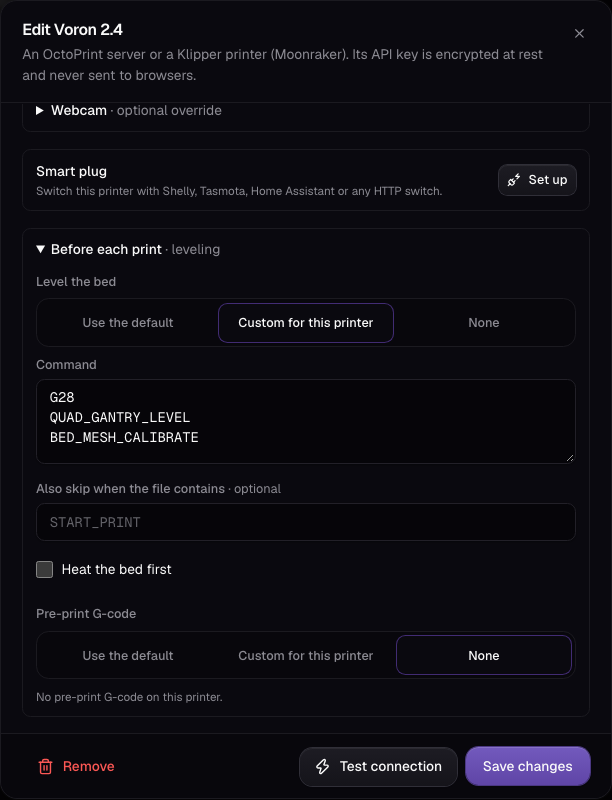
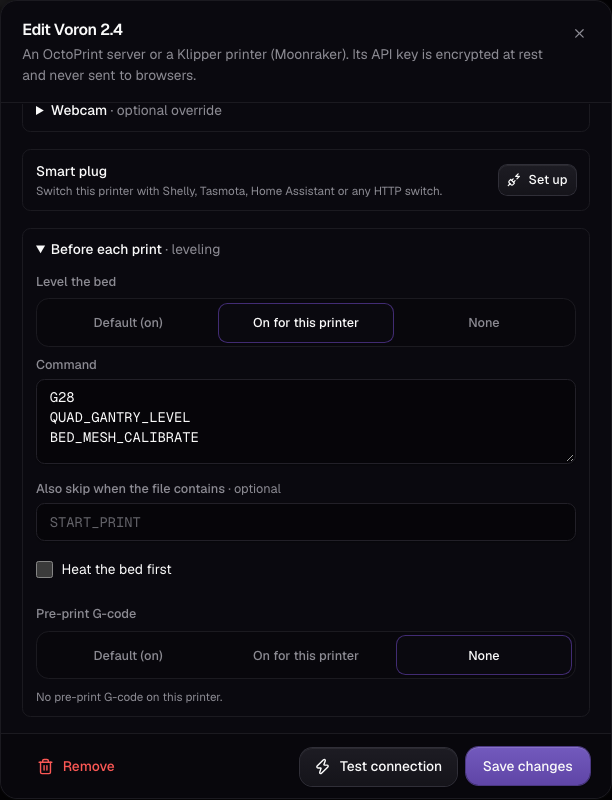
Printer dialog: show whether the pre-print default is on, and warn when Default (off) means nothing runs
Claude-Session: https://claude.ai/code/session_01VYYm8sXoCeympBHRdWuxtT

diff --git a/src/lib/components/preprint/PrinterPrePrint.svelte b/src/lib/components/preprint/PrinterPrePrint.svelte
@@ -42,6 +42,10 @@
 	const summary = (on: boolean, what: string) => (on ? what : 'off');
 	const defLevel = $derived(defaults ? summary(defaults.leveling.enabled, commandLines(kindCommand === 'G28\nG29' ? defaults.leveling.octoprintCommand : defaults.leveling.klipperCommand).join(', ') || kindCommand) : '…');
 	const defSnippet = $derived(defaults ? summary(defaults.snippet.enabled && !!commandLines(defaults.snippet.gcode).length, `${commandLines(defaults.snippet.gcode).length} lines`) : '…');
+	// "Use the default" while the default is off does nothing: say so on the button and below it.
+	const levelDefOn = $derived(!!defaults?.leveling.enabled);
+	const snippetDefOn = $derived(!!defaults && defaults.snippet.enabled && !!commandLines(defaults.snippet.gcode).length);
+	const modeLabel = (m: PrepMode, defOn: boolean) => (m === 'default' && defaults ? `Default (${defOn ? 'on' : 'off'})` : m === 'custom' ? 'On for this printer' : MODE_LABEL[m]);
 	const enabledLabel = $derived(form ? [form.leveling.mode !== 'none' && (form.leveling.mode === 'custom' || defaults?.leveling.enabled) ? 'leveling' : null, form.snippet.mode !== 'none' && (form.snippet.mode === 'custom' || defaults?.snippet.enabled) ? 'G-code' : null].filter(Boolean).join(' + ') || 'nothing' : '');
 </script>
 
@@ -55,10 +59,15 @@
 				<legend class="label">Level the bed</legend>
 				<div class="grid grid-cols-3 gap-1 rounded-xl border border-border bg-surface p-1" role="radiogroup" aria-label="Level the bed">
 					{#each MODES as m (m)}
-						<button type="button" role="radio" aria-checked={form.leveling.mode === m} onclick={() => (form!.leveling.mode = m)} class="min-h-9 rounded-lg px-2 py-1.5 text-[0.75rem] font-medium transition touch:min-h-11 {form.leveling.mode === m ? 'bg-card text-foreground shadow-surface ring-1 ring-primary/40' : 'text-muted-foreground hover:text-foreground'}">{MODE_LABEL[m]}</button>
+						<button type="button" role="radio" aria-checked={form.leveling.mode === m} onclick={() => (form!.leveling.mode = m)} class="min-h-9 rounded-lg px-2 py-1.5 text-[0.75rem] font-medium transition touch:min-h-11 {form.leveling.mode === m ? 'bg-card text-foreground shadow-surface ring-1 ring-primary/40' : 'text-muted-foreground hover:text-foreground'}">{modeLabel(m, levelDefOn)}</button>
 					{/each}
 				</div>
-				{#if form.leveling.mode === 'default'}
+				{#if form.leveling.mode === 'default' && !levelDefOn}
+					<p class="text-[0.6875rem] text-warning" data-testid="printer-level-default-off">
+						The default is off (Settings → Before each print), so this printer won’t level.
+						<button type="button" class="font-medium underline underline-offset-2" onclick={() => (form!.leveling.mode = 'custom')}>Turn it on for this printer</button>
+					</p>
+				{:else if form.leveling.mode === 'default'}
 					<p class="text-[0.6875rem] text-muted-foreground">The default (Settings → Before each print): <span class="font-mono text-foreground/80">{defLevel}</span>.</p>
 				{:else if form.leveling.mode === 'custom'}
 					<label class="block">
@@ -77,7 +86,7 @@
 						{/if}
 					</div>
 				{:else}
-					<p class="text-[0.6875rem] text-muted-foreground">Never levels before a print on this printer.</p>
+					<p class="text-[0.6875rem] text-muted-foreground">Never levels before a print on this printer, whatever the default says.</p>
 				{/if}
 			</fieldset>
 
@@ -85,10 +94,12 @@
 				<legend class="label">Pre-print G-code</legend>
 				<div class="grid grid-cols-3 gap-1 rounded-xl border border-border bg-surface p-1" role="radiogroup" aria-label="Pre-print G-code">
 					{#each MODES as m (m)}
-						<button type="button" role="radio" aria-checked={form.snippet.mode === m} onclick={() => (form!.snippet.mode = m)} class="min-h-9 rounded-lg px-2 py-1.5 text-[0.75rem] font-medium transition touch:min-h-11 {form.snippet.mode === m ? 'bg-card text-foreground shadow-surface ring-1 ring-primary/40' : 'text-muted-foreground hover:text-foreground'}">{MODE_LABEL[m]}</button>
+						<button type="button" role="radio" aria-checked={form.snippet.mode === m} onclick={() => (form!.snippet.mode = m)} class="min-h-9 rounded-lg px-2 py-1.5 text-[0.75rem] font-medium transition touch:min-h-11 {form.snippet.mode === m ? 'bg-card text-foreground shadow-surface ring-1 ring-primary/40' : 'text-muted-foreground hover:text-foreground'}">{modeLabel(m, snippetDefOn)}</button>
 					{/each}
 				</div>
-				{#if form.snippet.mode === 'default'}
+				{#if form.snippet.mode === 'default' && !snippetDefOn}
+					<p class="text-[0.6875rem] text-muted-foreground">The default has no pre-print G-code, so none runs on this printer.</p>
+				{:else if form.snippet.mode === 'default'}
 					<p class="text-[0.6875rem] text-muted-foreground">The default: <span class="font-mono text-foreground/80">{defSnippet}</span>.</p>
 				{:else if form.snippet.mode === 'custom'}
 					<textarea class="input min-h-24 py-2 font-mono text-[0.8125rem]" rows="4" placeholder={'G28\nM420 S1'} aria-label="Pre-print G-code for this printer" bind:value={form.snippet.gcode} data-testid="printer-snippet"></textarea>

diff --git a/site/docs.html b/site/docs.html
@@ -461,7 +461,7 @@ docker compose -f compose.yaml -f compose.detect.yaml up -d</code></pre>
 
 					<section id="preprint">
 						<h2>Before each print</h2>
-						<p><strong>Settings → Before each print</strong> (admins) sets bed leveling and a pre-print G-code snippet to run before every print octo·modern starts; each printer’s settings dialog picks <strong>Use the default</strong>, <strong>Custom for this printer</strong> or <strong>None</strong>, separately for each. Everything is off until you turn it on.</p>
+						<p><strong>Settings → Before each print</strong> (admins) sets bed leveling and a pre-print G-code snippet to run before every print octo·modern starts; each printer’s settings dialog picks <strong>Default</strong> (labelled on or off, as the default is), <strong>On for this printer</strong> or <strong>None</strong>, separately for each. The default is off until you switch it on, so <strong>Default (off)</strong> runs nothing. Everything is off until you turn it on.</p>
 						<ul>
 							<li><strong>Leveling</strong>: <code>G28</code> + <code>G29</code> on OctoPrint, <code>G28</code> + <code>BED_MESH_CALIBRATE</code> on Klipper, or your own command. Optionally heat the bed first, to the file’s first bed temperature (or a start macro’s <code>BED_TEMP=</code>), else a temperature you set, waiting with <code>M190</code>.</li>
 							<li><strong>Already in the file?</strong> octo·modern reads the start of the file (up to its first layer change, at most 1 MB) and compares commands with comments, case and spacing ignored. Leveling is skipped when the file runs <code>G29</code>, <code>G80</code> or <code>BED_MESH_CALIBRATE</code>; <code>M420 S1</code> and <code>BED_MESH_PROFILE LOAD</code> only load a mesh and don’t count. The snippet is skipped when all its commands are there, in order (with or without their parameters). An optional pattern (<code>START_PRINT</code>, or <code>/regex/flags</code>) covers start macros that do it inside.</li>

diff --git a/README.md b/README.md
@@ -429,7 +429,7 @@ API: `GET /api/printers/<id>/bedmesh` (plugin status, the latest mesh, history, 
 
 ## Before each print (leveling and pre-print G-code)
 
-Some files level the bed in their start G-code and some don't; some printers need a `G28` and a saved mesh loaded, others a fresh `BED_MESH_CALIBRATE`. **Settings → Before each print** (admins) sets what runs before every print octo·modern starts, and each printer's settings dialog (**Before each print**) chooses **Use the default**, **Custom for this printer** or **None**, separately for leveling and for the G-code. Everything is off until you turn it on.
+Some files level the bed in their start G-code and some don't; some printers need a `G28` and a saved mesh loaded, others a fresh `BED_MESH_CALIBRATE`. **Settings → Before each print** (admins) sets what runs before every print octo·modern starts, and each printer's settings dialog (**Before each print**) chooses **Default** (labelled on or off, as the default is), **On for this printer** or **None**, separately for leveling and for the G-code. The default is off until you switch it on in Settings, so **Default (off)** runs nothing; the dialog says so and offers **Turn it on for this printer**. Everything is off until you turn it on.
 
 ![Before each print](docs/screenshots/preprint-settings.png)
 
